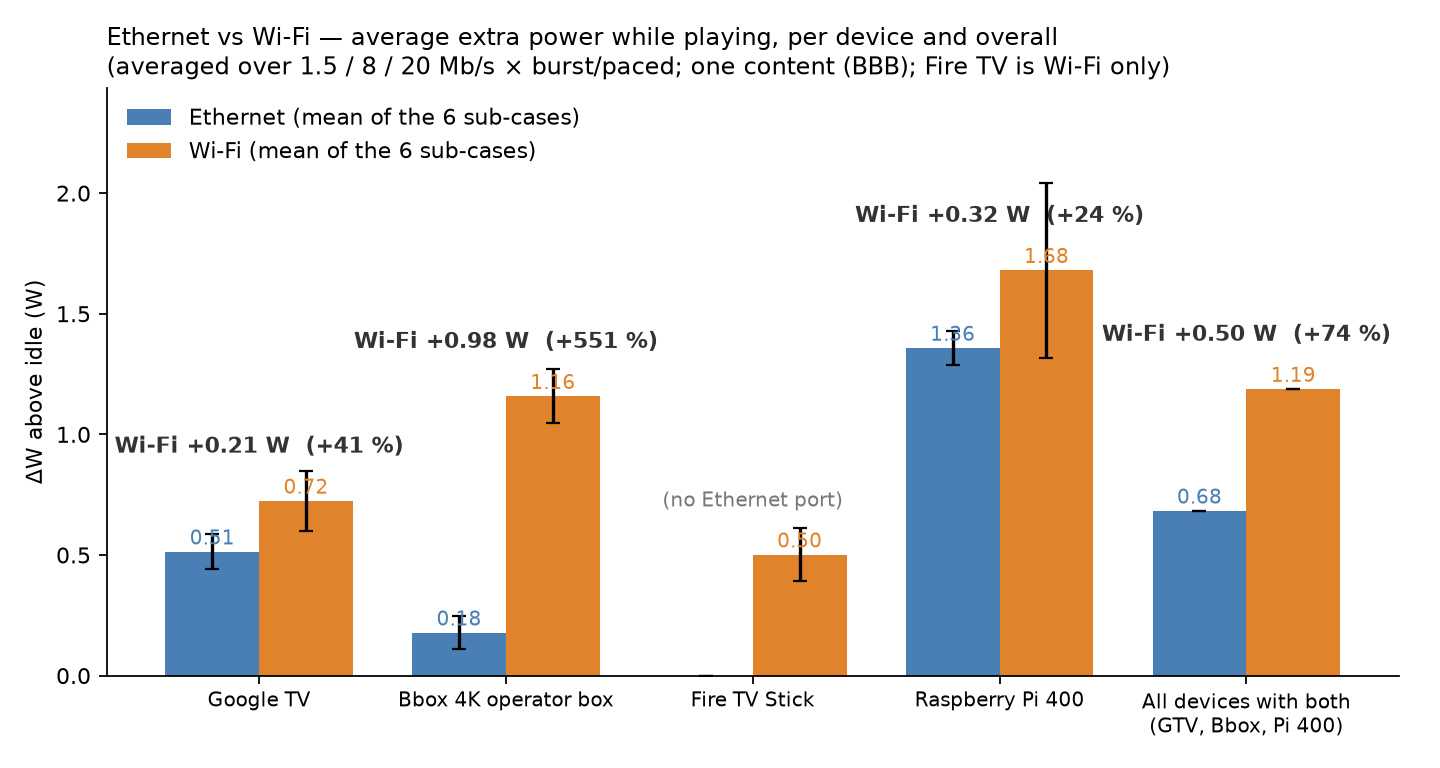
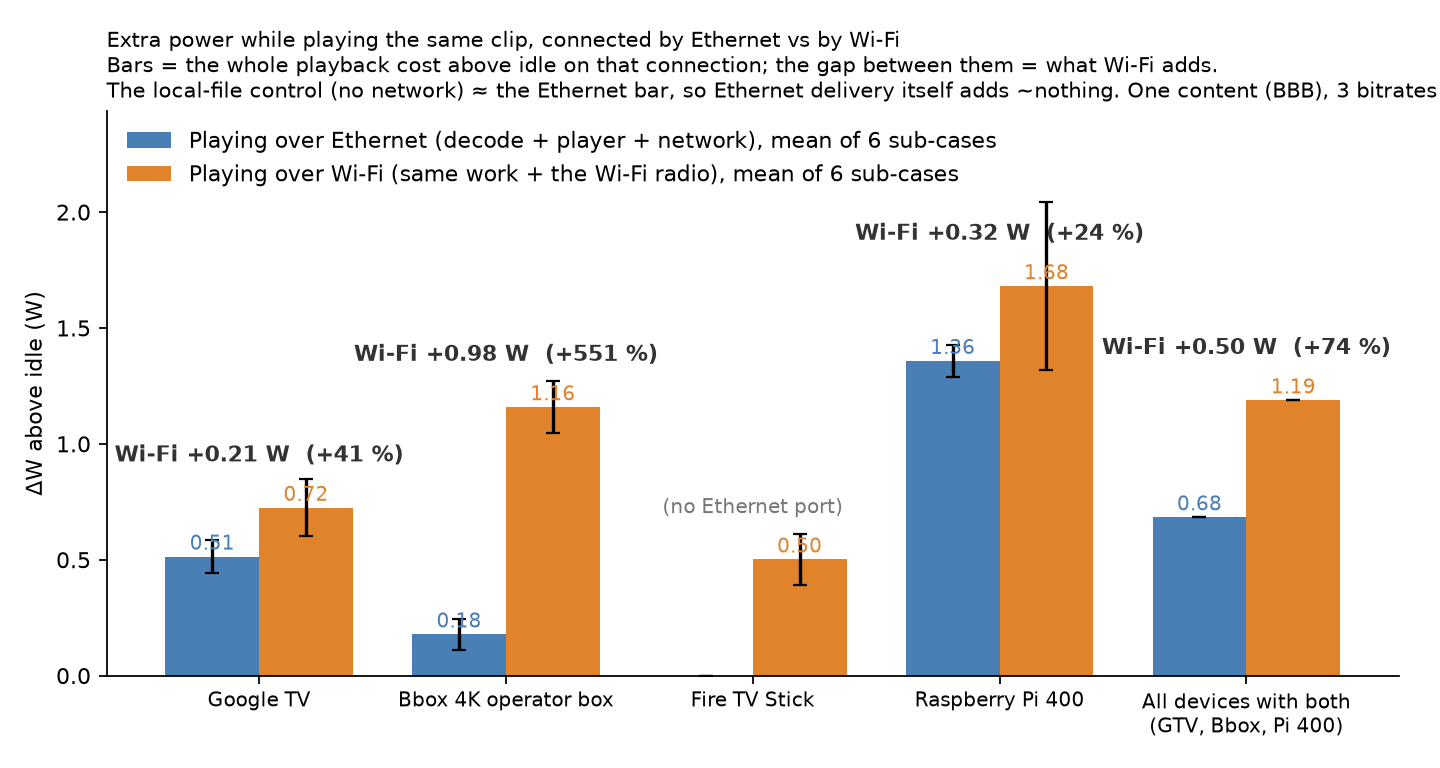
CR-074 summary chart: legend/title say the bars are whole playback cost per connection, gap = Wi-Fi share; report wording
Claude-Session: https://claude.ai/code/session_013bk2bL8bQLt3bbuRbLaXyB

diff --git a/docs/netpath_2026-08-18/make_charts.py b/docs/netpath_2026-08-18/make_charts.py
@@ -62,15 +62,15 @@ for dev,label in DEV:
 both=[i for i,(dev,_) in enumerate(DEV) if dev!="firestick"]
 labels.append("All devices with both\n(GTV, Bbox, Pi 400)"); E.append(st.mean([E[i] for i in both])); W.append(st.mean([W[i] for i in both])); Eerr.append(0); Werr.append(0)
 x=np.arange(len(labels)); wdt=0.38
-ax.bar(x-wdt/2,E,wdt,yerr=Eerr,color=ETH,label="Ethernet (mean of the 6 sub-cases)",capsize=3)
-ax.bar(x+wdt/2,W,wdt,yerr=Werr,color=WIFI,label="Wi-Fi (mean of the 6 sub-cases)",capsize=3)
+ax.bar(x-wdt/2,E,wdt,yerr=Eerr,color=ETH,label="Playing over Ethernet (decode + player + network), mean of 6 sub-cases",capsize=3)
+ax.bar(x+wdt/2,W,wdt,yerr=Werr,color=WIFI,label="Playing over Wi-Fi (same work + the Wi-Fi radio), mean of 6 sub-cases",capsize=3)
 for i in range(len(labels)):
     if E[i]: ax.text(i-wdt/2,E[i]+0.03,f"{E[i]:.2f}",ha="center",fontsize=9,color=ETH)
     ax.text(i+wdt/2,W[i]+0.03,f"{W[i]:.2f}",ha="center",fontsize=9,color=WIFI)
     if E[i]: ax.text(i,max(E[i],W[i])+0.2,f"Wi-Fi +{W[i]-E[i]:.2f} W  (+{100*(W[i]-E[i])/E[i]:.0f} %)",ha="center",fontsize=10,fontweight="bold",color="#333")
     else: ax.text(i,W[i]+0.2,"(no Ethernet port)",ha="center",fontsize=9,color="#777")
 ax.set_xticks(x); ax.set_xticklabels(labels,fontsize=9); ax.set_ylabel("ΔW above idle (W)"); ax.legend(frameon=False,loc="upper left")
-ax.set_title("Ethernet vs Wi-Fi — average extra power while playing, per device and overall\n(averaged over 1.5 / 8 / 20 Mb/s × burst/paced; one content (BBB); Fire TV is Wi-Fi only)",fontsize=11,loc="left")
+ax.set_title("Extra power while playing the same clip, connected by Ethernet vs by Wi-Fi\nBars = the whole playback cost above idle on that connection; the gap between them = what Wi-Fi adds.\nThe local-file control (no network) ≈ the Ethernet bar, so Ethernet delivery itself adds ~nothing. One content (BBB), 3 bitrates × burst/paced; Fire TV is Wi-Fi only.",fontsize=9.5,loc="left")
 ax.set_ylim(0,max(W)*1.45); fig2.tight_layout(); fig2.savefig("netpath_summary.png",dpi=160)
 json.dump({"per_device":{l:{"eth":e,"wifi":w} for l,e,w in zip(labels,E,W)}}, open("netpath_summary.json","w"), indent=1)
 print("charts ok", {l:(round(e,2),round(w,2)) for l,e,w in zip(labels,E,W)})

diff --git a/docs/netpath_2026-08-18/README.md b/docs/netpath_2026-08-18/README.md
@@ -83,7 +83,7 @@ delivery? Stand-alone experiment on the OWL decode rig; not part of the codec pa
 
 ## What we can say (one content, one codec, 600 s windows, n as stated)
 
-1. **Ethernet delivery costs nothing measurable on the client.** GTV: local file +0.50 ± 0.02 W vs Ethernet HTTP
+1. **Ethernet delivery costs nothing measurable on the client** (note the bars in the charts are the *whole* playback cost above idle on each connection — decode + render + player + network — not the network share alone; the network share is read from the local-file control). GTV: local file +0.50 ± 0.02 W vs Ethernet HTTP
    +0.52 ± 0.02 W (8 Mb/s); Pi 400: Ethernet ≈ local across bitrates; Pi with the Wi-Fi radio OFF ≈ radio on
    (1.39 vs 1.37 W) — an idle radio is free too.
 2. **Wi-Fi costs every device more, by very different amounts:** GTV **+0.21 W** on average (+0.16 at 1.5 Mb/s
